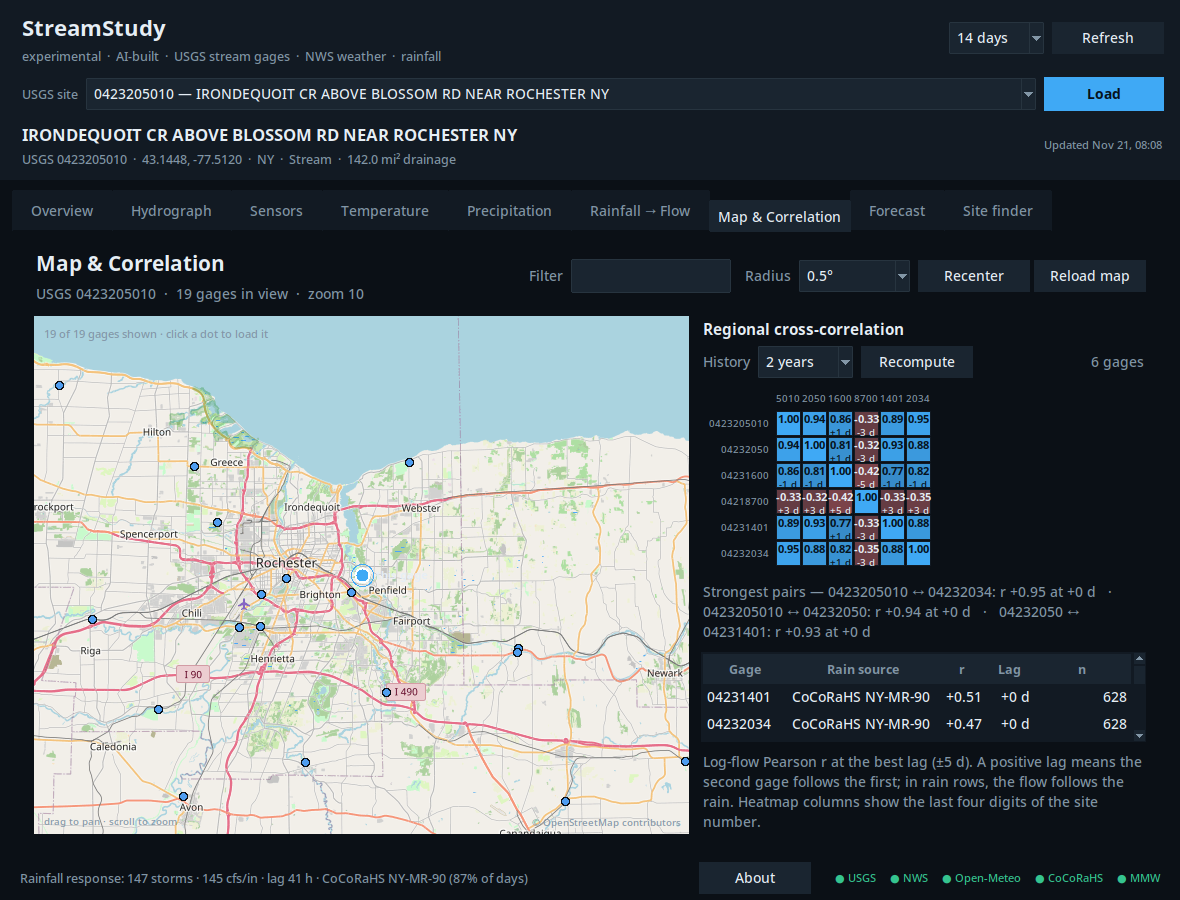
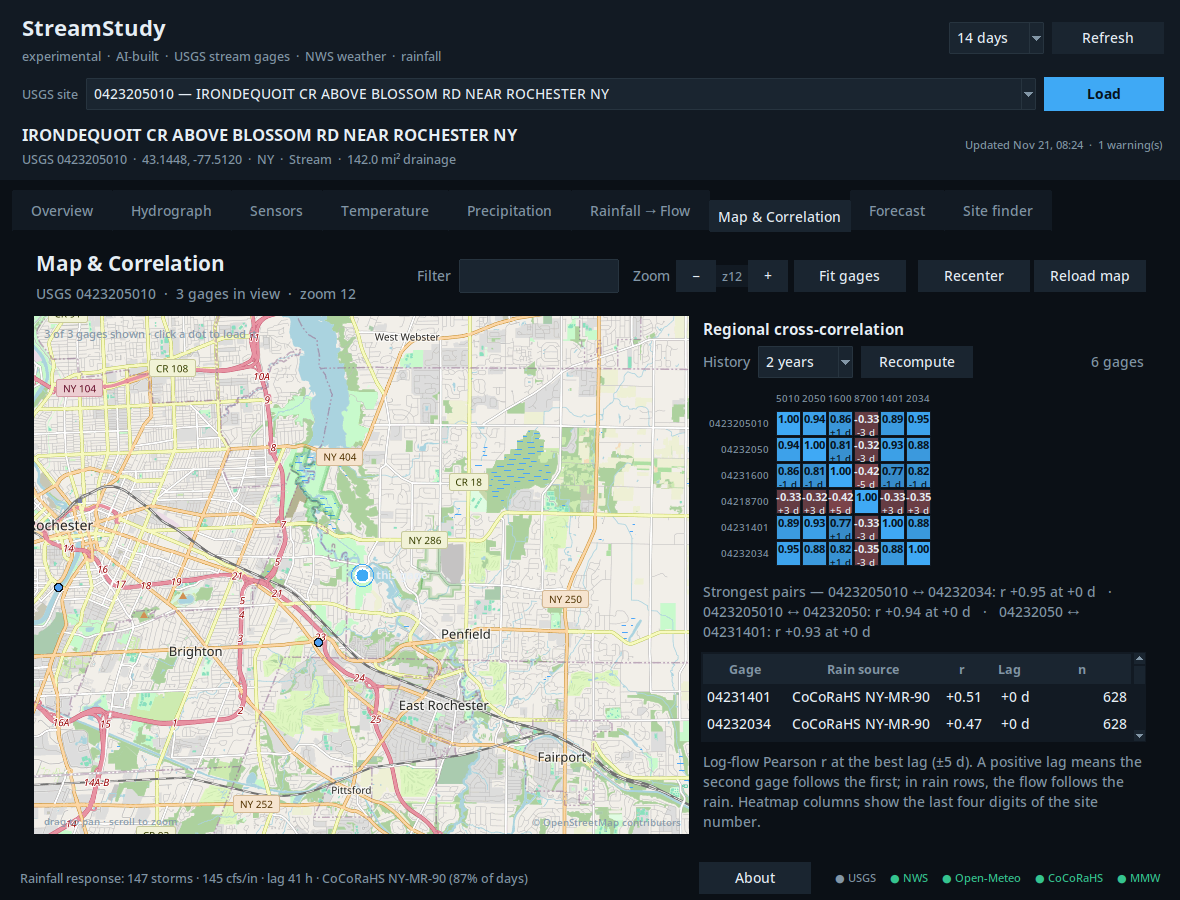
Decouple map zoom from the old radius presets
- Remove the radius dropdown; zoom is now a free level (4-15) with -/+
  buttons, a zNN readout, and persistence in settings (map_zoom).
- Recenter keeps the user's zoom instead of resetting it.
- New 'Fit gages' auto-frames all visible stations.
- Wheel zoom/pan/drag and the debounced resize reload are unchanged.
- Migrate an old map_radius setting to a zoom level once.
- README/AGENTS updated; map screenshot refreshed at z12; tests updated.

diff --git a/streamstudy/app.py b/streamstudy/app.py
@@ -25,13 +25,7 @@ from .settings import (
 from .ui.forecast_view import ForecastView
 from .ui.home_view import HomeView
 from .ui.hydro_view import HydroView
-from .ui.map_view import (
-    MapView,
-    fetch_tiles,
-    tiles_for_bbox,
-    view_bbox,
-    zoom_for_radius,
-)
+from .ui.map_view import MapView, fetch_tiles, tiles_for_bbox, view_bbox
 from .ui.precip_view import PrecipView
 from .ui.response_view import ResponseView
 from .ui.sensors_view import SensorsView
@@ -115,7 +109,7 @@ class StreamStudyApp:
         self.history_loading = False
         self._history_site: str | None = None
         self._history_token = 0
-        self.map_radius = float(self.settings.get("map_radius", 0.5))
+        self.map_zoom = int(self.settings.get("map_zoom", 10))
         self.map_years = int(self.settings.get("map_years", 2))
         self.map_loading = False
         self._map_site: str | None = None
@@ -513,7 +507,7 @@ class StreamStudyApp:
         self.map_view.show_map_loading()
         self._request_map_view(
             (site.latitude, site.longitude),
-            zoom_for_radius(self.map_radius),
+            self.map_zoom,
             rerun_regional=True,
         )
 
@@ -547,6 +541,10 @@ class StreamStudyApp:
         self.map_loading = True
         self._map_center = center
         self._map_zoom = zoom
+        if zoom != self.map_zoom:
+            self.map_zoom = zoom
+            self.settings["map_zoom"] = zoom
+            save_settings(self.settings, self.settings_path)
         width, height = self.map_view.map_size()
         west, south, east, north = view_bbox(center, zoom, width, height)
 
@@ -658,12 +656,38 @@ class StreamStudyApp:
                 tone="muted",
             )
 
-    def set_map_radius(self, radius: float) -> None:
-        self.map_radius = float(radius)
-        self.settings["map_radius"] = self.map_radius
-        save_settings(self.settings, self.settings_path)
-        self._map_site = None
-        self.request_map(force=True)
+    def zoom_map(self, delta: int) -> None:
+        center = self._map_center
+        if center is None and self.bundle is not None:
+            center = (self.bundle.site.latitude, self.bundle.site.longitude)
+        if center is None:
+            return
+        zoom = max(4, min(15, self.map_zoom + int(delta)))
+        if zoom == self.map_zoom:
+            return
+        self._request_map_view(center, zoom, rerun_regional=False)
+
+    def fit_map_to_sites(self, sites) -> None:
+        points = [
+            (site.latitude, site.longitude)
+            for site in (sites or [])
+            if site.latitude is not None and site.longitude is not None
+        ]
+        if not points:
+            return
+        lat_min = min(point[0] for point in points)
+        lat_max = max(point[0] for point in points)
+        lon_min = min(point[1] for point in points)
+        lon_max = max(point[1] for point in points)
+        center = ((lat_min + lat_max) / 2.0, (lon_min + lon_max) / 2.0)
+        width, height = self.map_view.map_size()
+        zoom = 15
+        for candidate in range(15, 3, -1):
+            west, south, east, north = view_bbox(center, candidate, width, height)
+            if south <= lat_min and north >= lat_max and west <= lon_min and east >= lon_max:
+                zoom = candidate
+                break
+        self._request_map_view(center, zoom, rerun_regional=False)
 
     def set_temperature_threshold(self, value: float) -> None:
         self.temperature_threshold = max(0.0, min(40.0, float(value)))
@@ -704,7 +728,7 @@ class StreamStudyApp:
         if self.bundle is None:
             return
         site = self.bundle.site
-        radius = max(0.5, self.map_radius)
+        radius = 0.5
         bbox = (
             site.longitude - radius,
             site.latitude - radius,
@@ -768,7 +792,7 @@ class StreamStudyApp:
         self.store_flow_metrics = bool(DEFAULTS["store_flow_metrics"])
         self.flow_metrics = {}
         self.history_years = int(DEFAULTS["history_years"])
-        self.map_radius = float(DEFAULTS["map_radius"])
+        self.map_zoom = int(DEFAULTS["map_zoom"])
         self.map_years = int(DEFAULTS["map_years"])
         self.days = int(DEFAULTS["days"])
         save_settings(self.settings, self.settings_path)
@@ -778,7 +802,7 @@ class StreamStudyApp:
         if current is not None:
             self.site_var.set(self._site_label(current.number))
         self.map_view.years_var.set(f"{self.map_years} years")
-        self.map_view.radius_var.set(self.map_view._label_for(self.map_radius))
+        self.map_view.zoom_var.set(f"z{self.map_zoom}")
         self.response_view.metrics_var.set(self.store_flow_metrics)
         self.temperature_view.threshold_var.set(f"{self.temperature_threshold:g}")
         if self.bundle is not None:

diff --git a/streamstudy/ui/map_view.py b/streamstudy/ui/map_view.py
@@ -26,16 +26,9 @@ from .widgets import clear_tree, treeview
 TILE_URL = "https://tile.openstreetmap.org/{z}/{x}/{y}.png"
 ATTRIBUTION = "\u00a9 OpenStreetMap contributors"
 
-ZOOM_BY_RADIUS = {0.25: 11, 0.5: 10, 1.0: 9, 2.0: 8}
-RADII = (0.25, 0.5, 1.0, 2.0)
-
-
 # --------------------------------------------------------------------------- #
 # web-mercator helpers
 # --------------------------------------------------------------------------- #
-def zoom_for_radius(radius: float) -> int:
-    nearest = min(ZOOM_BY_RADIUS, key=lambda value: abs(value - radius))
-    return ZOOM_BY_RADIUS[nearest]
 
 
 def global_pixel(latitude: float, longitude: float, zoom: int) -> tuple[float, float]:
@@ -572,19 +565,26 @@ class MapView(ttk.Frame):
         filter_entry.bind(
             "<KeyRelease>", lambda _event: self.map.set_filter(self.filter_var.get())
         )
-        ttk.Label(controls, text="Radius", style="Muted.TLabel").pack(
-            side="left", padx=(0, 6)
+        ttk.Label(controls, text="Zoom", style="Muted.TLabel").pack(
+            side="left", padx=(0, 4)
         )
-        self.radius_var = tk.StringVar(value=self._radius_label())
-        radius_box = ttk.Combobox(
+        ttk.Button(controls, text="\u2212", width=2, command=self._zoom_out).pack(
+            side="left"
+        )
+        self.zoom_var = tk.StringVar(value=f"z{self.app.map_zoom}")
+        ttk.Label(
             controls,
-            textvariable=self.radius_var,
-            width=10,
-            state="readonly",
-            values=[self._label_for(radius) for radius in RADII],
+            textvariable=self.zoom_var,
+            style="HeaderMuted.TLabel",
+            width=4,
+            anchor="center",
+        ).pack(side="left")
+        ttk.Button(controls, text="+", width=2, command=self._zoom_in).pack(
+            side="left"
         )
-        radius_box.pack(side="left")
-        radius_box.bind("<<ComboboxSelected>>", self._on_radius)
+        ttk.Button(controls, text="Fit gages", command=self._fit_gages).pack(
+            side="left", padx=(6, 4)
+        )
         ttk.Button(controls, text="Recenter", command=self._recenter).pack(
             side="left", padx=(8, 0)
         )
@@ -676,18 +676,14 @@ class MapView(ttk.Frame):
         ).grid(row=5, column=0, sticky="w", pady=(8, 0))
 
     # -- helpers -------------------------------------------------------
-    def _label_for(self, radius: float) -> str:
-        return f"{radius:g}\u00b0"
+    def _zoom_in(self) -> None:
+        self.app.zoom_map(1)
 
-    def _radius_label(self) -> str:
-        return self._label_for(float(self.app.map_radius))
+    def _zoom_out(self) -> None:
+        self.app.zoom_map(-1)
 
-    def _on_radius(self, _event: tk.Event | None = None) -> None:
-        try:
-            radius = float(self.radius_var.get().rstrip("\u00b0"))
-        except ValueError:
-            return
-        self.app.set_map_radius(radius)
+    def _fit_gages(self) -> None:
+        self.app.fit_map_to_sites(self._sites)
 
     def _on_years(self, _event: tk.Event | None = None) -> None:
         try:
@@ -740,6 +736,7 @@ class MapView(ttk.Frame):
         self._sites = list(sites)
         self.map.set_map(center, zoom, sites, tiles, current_id)
         self.map.set_filter(self.filter_var.get())
+        self.zoom_var.set(f"z{zoom}")
         self.caption.configure(
             text=f"USGS {current_id}  \u00b7  {len(sites)} gages in view  \u00b7  zoom {zoom}"
         )

diff --git a/streamstudy/settings.py b/streamstudy/settings.py
@@ -18,7 +18,7 @@ DEFAULTS = {
     "temperature_threshold_c": 20.0,
     "store_flow_metrics": True,
     "flow_metrics": {},
-    "map_radius": 0.5,
+    "map_zoom": 10,
     "map_years": 2,
     "coco_station": "",
     "state": "NY",
@@ -26,7 +26,6 @@ DEFAULTS = {
 
 ALLOWED_DAYS = (7, 14, 30, 60)
 ALLOWED_HISTORY_YEARS = (2, 3, 5, 10)
-ALLOWED_MAP_RADII = (0.25, 0.5, 1.0, 2.0)
 ALLOWED_MAP_YEARS = (1, 2, 3)
 
 
@@ -73,8 +72,19 @@ def load_settings(path: str | Path | None = None) -> dict:
     )
     if data["history_years"] not in ALLOWED_HISTORY_YEARS:
         data["history_years"] = DEFAULTS["history_years"]
-    if float(data.get("map_radius", 0.5)) not in ALLOWED_MAP_RADII:
-        data["map_radius"] = DEFAULTS["map_radius"]
+    # Migrate the old radius preference to a zoom level once.
+    if "map_zoom" not in data and "map_radius" in data:
+        try:
+            legacy = float(data["map_radius"])
+        except (TypeError, ValueError):
+            legacy = 0.5
+        data["map_zoom"] = {0.25: 11, 0.5: 10, 1.0: 9, 2.0: 8}.get(legacy, 10)
+    data.pop("map_radius", None)
+    try:
+        zoom = int(data.get("map_zoom", 10))
+    except (TypeError, ValueError):
+        zoom = 10
+    data["map_zoom"] = max(4, min(15, zoom))
     if data.get("map_years", 2) not in ALLOWED_MAP_YEARS:
         data["map_years"] = DEFAULTS["map_years"]
     if not isinstance(data["recent_sites"], list):

diff --git a/tests/test_map.py b/tests/test_map.py
@@ -23,7 +23,7 @@ TINY_PNG = bytes.fromhex(
 
 
 class StubApp:
-    map_radius = 0.5
+    map_zoom = 10
     map_years = 2
 
     def __init__(self) -> None:
@@ -33,8 +33,11 @@ class StubApp:
     def load_site(self, number: str) -> None:
         self.loaded.append(number)
 
-    def set_map_radius(self, radius: float) -> None:  # pragma: no cover
-        self.map_radius = radius
+    def zoom_map(self, delta: int) -> None:  # pragma: no cover
+        self.map_zoom += delta
+
+    def fit_map_to_sites(self, sites) -> None:  # pragma: no cover
+        return None
 
     def set_map_years(self, years: int) -> None:  # pragma: no cover
         self.map_years = years

diff --git a/README.md b/README.md
@@ -56,8 +56,8 @@ feeds them**.
   a rainfall-vs-rise scatter with the storm examples behind the fit, and a forecast-driven
   predicted hydrograph with a 10–90 % band and the most similar past storms
 - **Map & Correlation** — a navigable OpenStreetMap view: **drag to pan, scroll to zoom**, and
-  **automatic reload on window resize**; filter gages by name, and click any dot to load it
-  (gages and tiles reload for the selected area).
+  **automatic reload on window resize**; **Recenter** keeps your zoom, **Fit gages** auto-frames
+  the visible stations, filter gages by name, and click any dot to load it.
   It pairs up to six regional streams by lagged log-flow correlation (±5 days) and correlates each
   stream with ERA5, the CoCoRaHS gauge and any on-site USGS rain gauge
 - **Forecast** — NWS daily periods with full discussion text, plus the NWS gridpoint
@@ -96,8 +96,10 @@ see how this particular stream has behaved, not as a flood forecast.
 
 The **Map & Correlation** tab puts the nearby gages on an OpenStreetMap basemap. It is a real
 map view: **drag to pan and scroll to zoom**, the gage list plus tiles reload for whatever area
-you select, and **resizing the window** fetches tiles/gages for the newly exposed area;
-**Recenter** returns to the loaded site and the **Filter** box matches station names or numbers.
+you select, and **resizing the window** fetches tiles/gages for the newly exposed area. Zoom is
+independent of any preset: **− / +** step the level, **Fit gages** frames every visible station,
+**Recenter** returns to the loaded site **without resetting your zoom**, and the **Filter** box
+matches station names or numbers.
 Click any dot to load that stream. For the current view it then:
 
 - fetches 1–3 years of **daily mean flow** for the six gages nearest the loaded site;
@@ -237,6 +239,7 @@ Additional settings (editable through the UI, stored in the same file):
 | `store_flow_metrics` | remember predicted flow metrics per site (`Remember` in Rainfall → Flow) | `true` |
 | `flow_metrics` | last predicted peak/rise/decay percentages per site number | `{}` |
 | `site_names` | number → station-name map used by the picker | `{}` |
+| `map_zoom` | last map zoom (4–15) | `10` |
 
 **Reset:** use **Settings → Reset settings to defaults…** in the menu bar. It clears recent sites,
 saved metrics and preferences, and keeps the current site loaded.

diff --git a/AGENTS.md b/AGENTS.md
@@ -79,8 +79,10 @@ make test / make gui-test / make run       # same, if you like make
   true response is known, and keep the 10–90 band honest.
 - **Map** — `ui/map_view.py`: drag/wheel emit `on_view_change` → `app.request_map_view`, which
   reloads tiles and gages for the new bbox; a debounced `<Configure>` resize emits `on_resize`
-  with `force=True`; the Filter box is client-side. Tiles are fetched in the worker
-  (`fetch_tiles`) and decoded on the main thread. Clicking calls `app.load_site`.
+  with `force=True`; the Filter box is client-side. Zoom is a free level (`settings.map_zoom`),
+  not a radius preset: `app.zoom_map(±1)` steps it, `fit_map_to_sites` frames the visible gages,
+  and `recenter_map` keeps the current zoom. Tiles are fetched in the worker (`fetch_tiles`) and
+  decoded on the main thread. Clicking calls `app.load_site`.
 - **Temperature** — `temperature_stats.py` integrates hours above a threshold from IV samples
   (gap capped at 2 h) and uses daily means for 30 d/1 y; `ui/temperature_view.py` also correlates
   daily water temperature with Open-Meteo air temperature and sunshine (linear, ±2 d).
